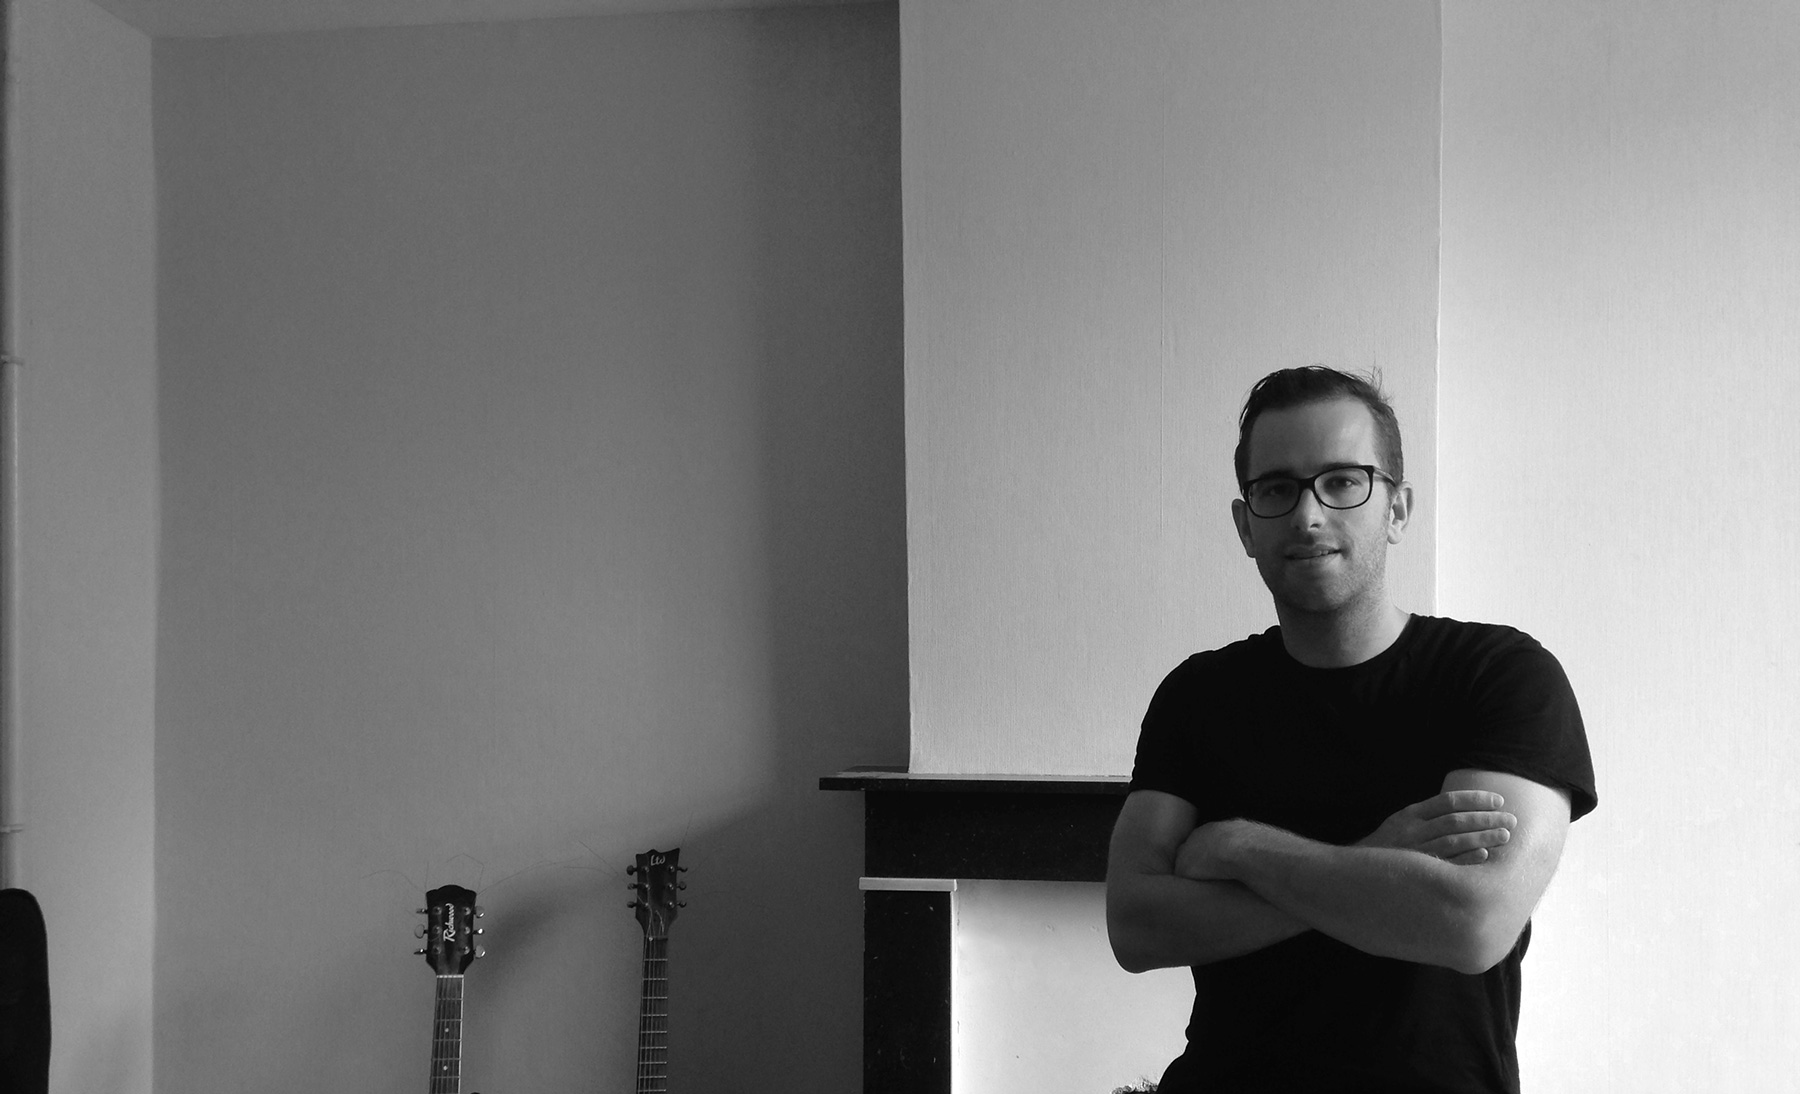
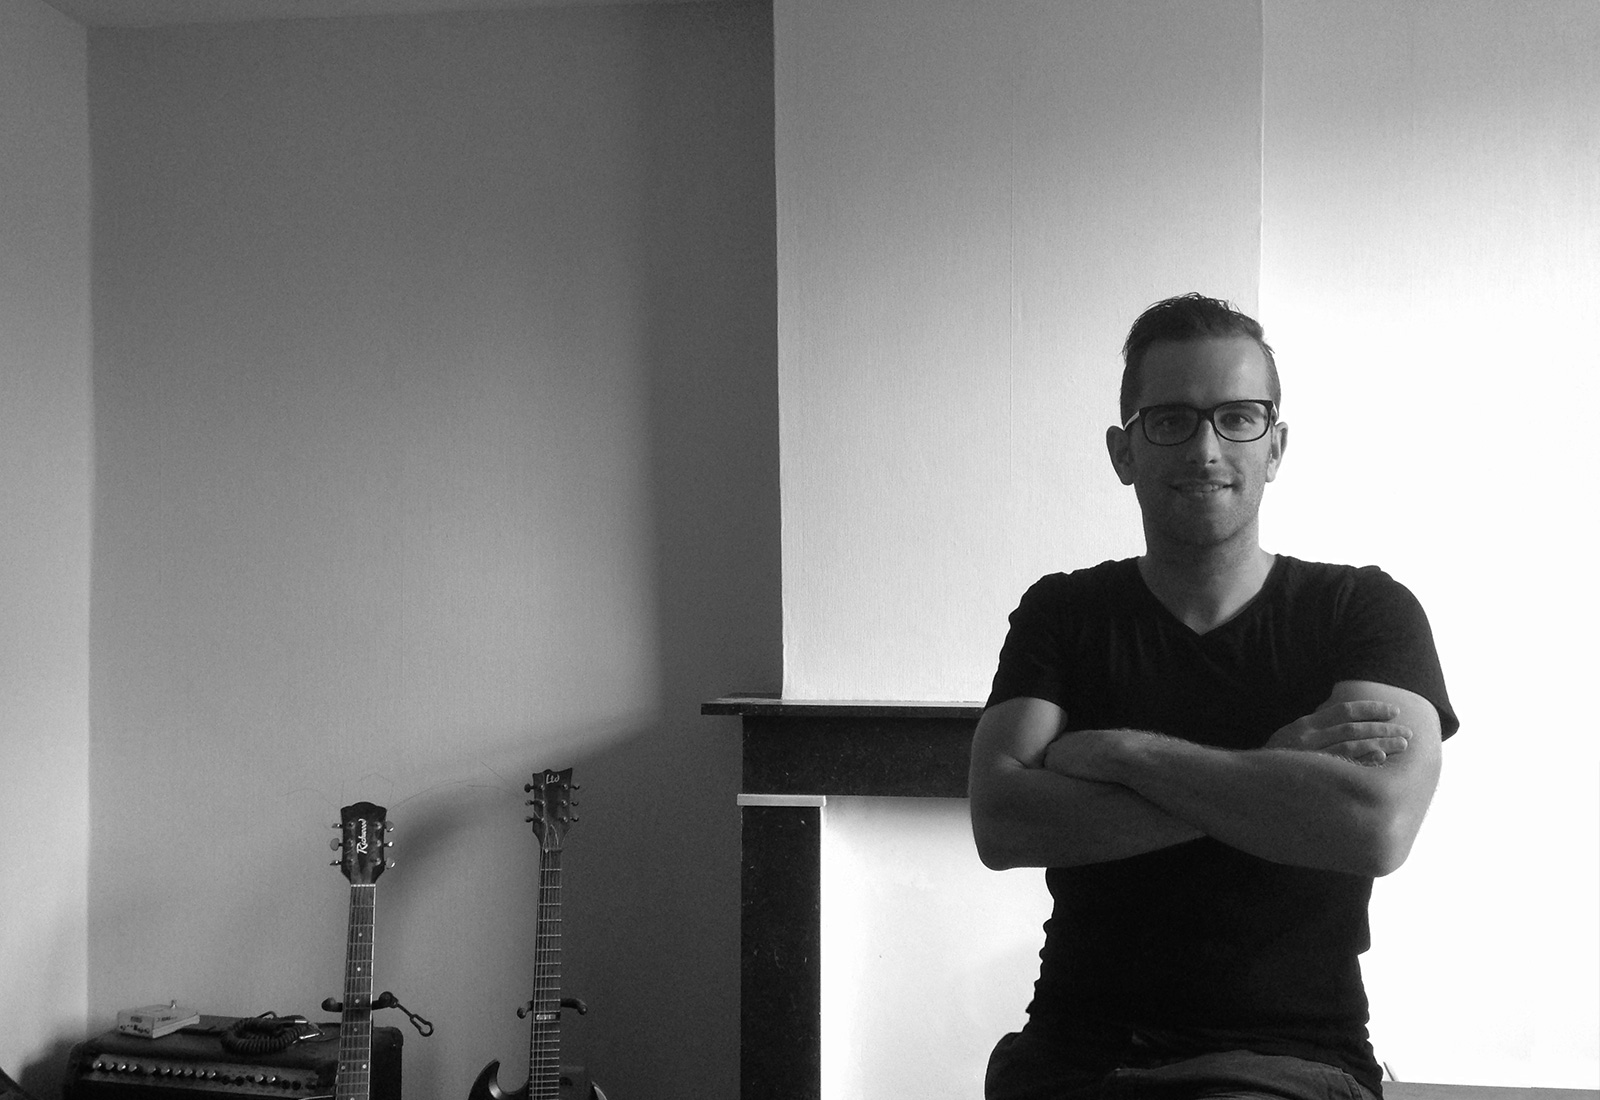
New "About Me" Picture

diff --git a/css/main.sass b/css/main.sass
@@ -585,7 +585,7 @@ body.blog-post
 
 
 // ----------------------------------------------------------------------------
-// About Me
+// Floormat
 .floormat
   background-color: #F7F1E3
   background-image: -moz-linear-gradient(-90deg, rgba(215,215,215,0.80) 0%, rgba(237,237,237,0.00) 3%), -moz-linear-gradient(-90deg, #F7F1E3 0%, #FFFCF5 100%)
@@ -820,7 +820,7 @@ body.about-me
   header
     background:
       image: linear-gradient(-180deg, rgba(51,51,51,.3) 10%, rgba(51,51,51,0.00) 30%), url(../img/about-me.jpg)
-      position: 50% 70%
+      position: 50% 55%
       size: cover
       repeat: no-repeat
     min-height: 550px
